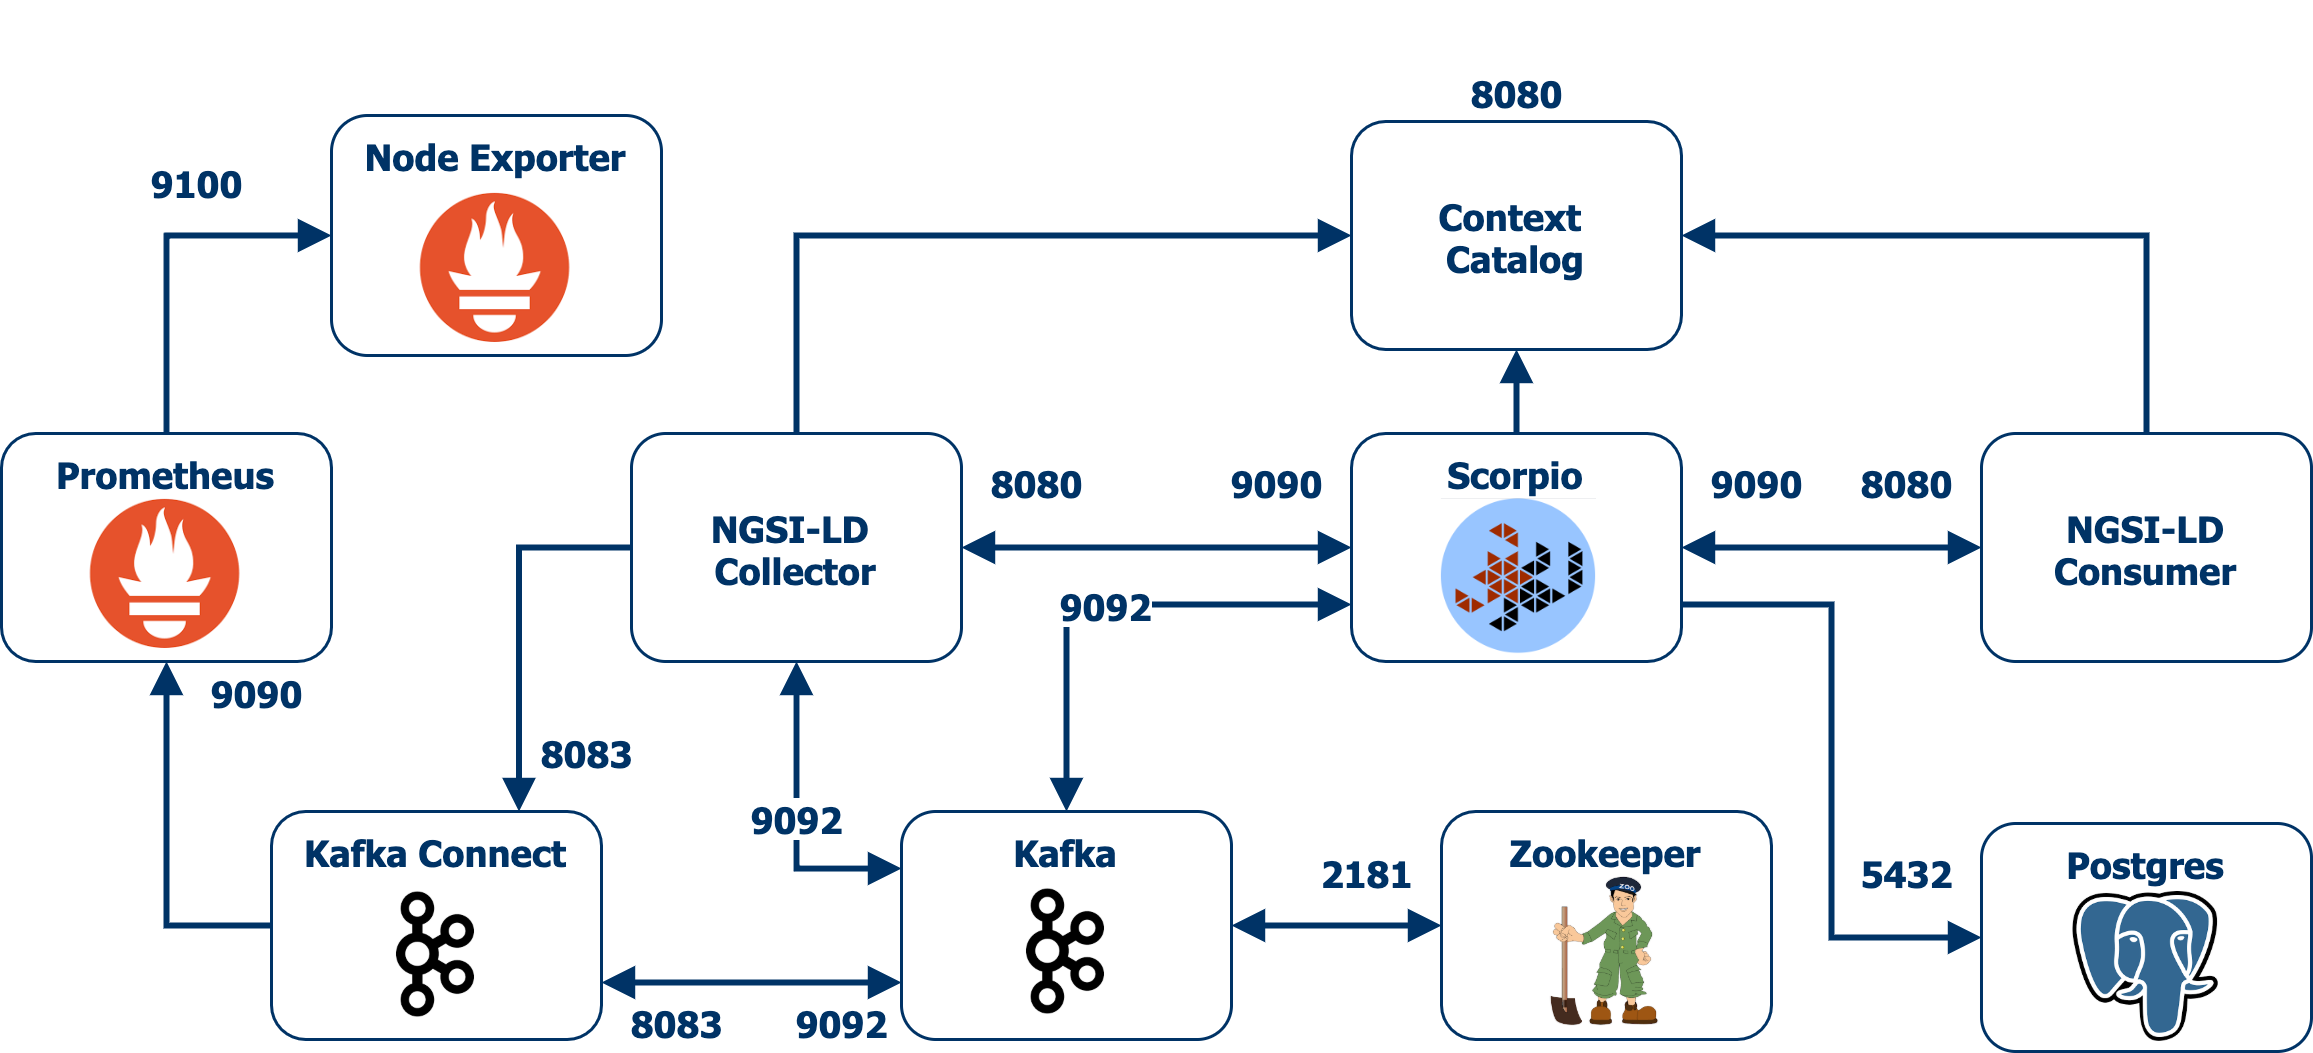
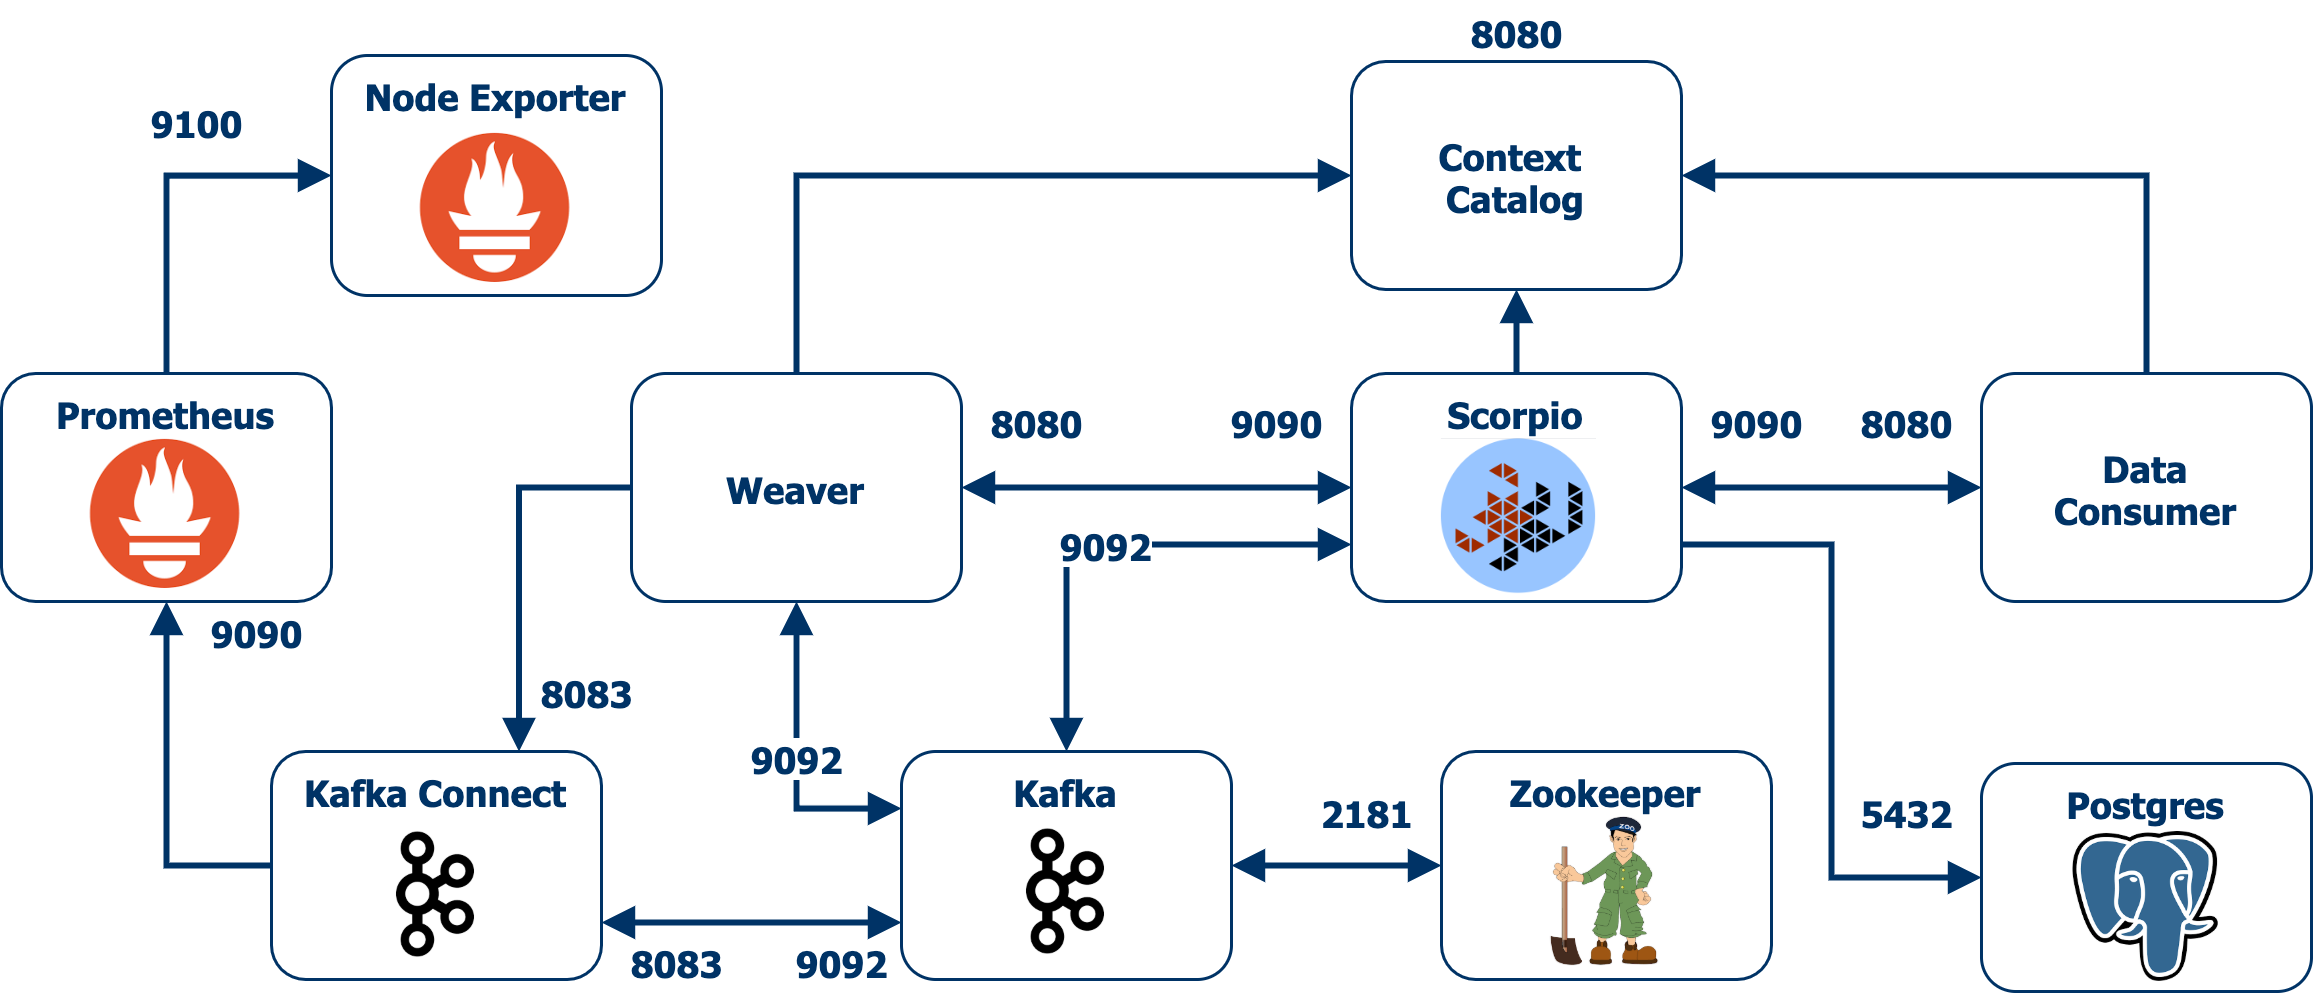
[S-6] Rename collector to weaver in docs

diff --git a/README.md b/README.md
@@ -1,10 +1,12 @@
-# Prometheus-collector
+# Semantic Data Aggregator
 
-Docker-based prototype that deploys a Prometheus metrics collector along with Scorpio Broker as the NGSI-LD context broker. 
+Docker-based prototype that deploys the semantic data aggregator.
 
-The metrics collector leverages Kafka Connect to configure Source/Sink Kafka Connectors that provide functionalities such as retrieving Prometheus metrics by polling Prometheus REST API. For the sake of simplicity, the metrics collector configures Kafka Connectors to use the same Kafka instance that Scorpio runs for its internal communication bus.
+The aggregator is composed of three main elements: the context broker, the context registry, and the data fabric. The first two elements are represented by the Scorpio Broker while the latter is a combination of agents that ingest/deliver data to/from the so-called data substrate represented by Kafka. These agents are dynamically configured by the weaver which subscribes to the context broker for news definitions of data sources and data consumers.
 
-Additionally, we use the metrics collector's Docker image - that runs a webserver programmed with FastAPI - to deploy a dummy context consumer. Basically, the webserver includes an additional REST endpoint that the context consumer can leverage to receive notifications from NGSI-LD subscriptions.
+The weaver leverages Kafka Connect to configure Source/Sink Kafka Connectors that provide functionalities such as retrieving Prometheus metrics by polling Prometheus REST API. For the sake of simplicity, the weaver configures Kafka Connectors to use the same Kafka instance that Scorpio runs for its internal communication bus.
+
+Additionally, a dummy context consumer is deployed based on a simple docker image that runs a FastAPI webserver. Basically, the webserver includes an additional REST endpoint that the context consumer can leverage to receive notifications from HTTP subscriptions.
 
 ![Docker Prototype](docs/collectors-docker-prototype.png)
 
